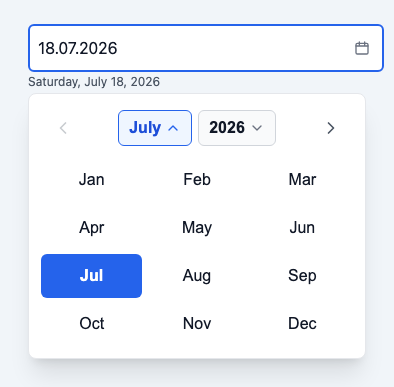
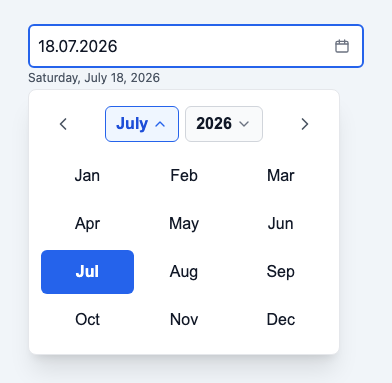
Guard every Date prop against Invalid Dates, not only value
Review of the invalid-date fix found the guard covered value and today
but left defaultCalendarMonth, minDate and maxDate raw. An Invalid
defaultCalendarMonth crashed at MOUNT — the header labels format the
view month on every render, popup open or not — reproduced against the
unguarded build before fixing. Invalid min/max degraded the year grid
to zero rows. All five Date props now normalize through usableDate at
the boundary, memoized so the React Compiler lint can keep its
memoization guarantees, and the regression suite covers each prop.

Also from the review: the new tests lacked the required placeholder
prop and a fireEvent import (the tests directory is not typechecked —
a known setup gap), screenshots and the GIF are regenerated because
the border-box reset narrows rendered widths (the 320px capture now
shows the exact overflow case fixed), and the changelog and release
notes for 0.3.1 describe both fixes.

diff --git a/tests/invalid-date.test.tsx b/tests/invalid-date.test.tsx
@@ -1,4 +1,4 @@
-import { render, screen } from "@testing-library/react";
+import { fireEvent, render, screen } from "@testing-library/react";
 import { describe, expect, it, vi } from "vitest";
 
 import { LocaleDatePicker } from "../src/LocaleDatePicker";
@@ -18,8 +18,53 @@ describe("an unusable Date never crashes the host tree", () => {
 
   it("renders with an Invalid Date as value", () => {
     expect(() =>
-      render(<LocaleDatePicker value={INVALID} onChange={() => {}} />),
+      render(
+        <LocaleDatePicker
+          value={INVALID}
+          onChange={() => {}}
+          placeholder="dd.mm.yyyy"
+        />,
+      ),
     ).not.toThrow();
+  });
+
+  it("renders and opens with an Invalid defaultCalendarMonth", () => {
+    // Reached the viewMonth state and crashed at MOUNT via the header
+    // labels, which format on every render whether the popup is open or
+    // not — a hole the original value-only guard left open.
+    expect(() =>
+      render(
+        <LocaleDatePicker
+          value={null}
+          onChange={() => {}}
+          placeholder="dd.mm.yyyy"
+          aria-label="Date"
+          defaultCalendarMonth={new Date("nope")}
+        />,
+      ),
+    ).not.toThrow();
+    fireEvent.click(screen.getByLabelText("Date"));
+    expect(screen.getByRole("dialog")).toBeTruthy();
+  });
+
+  it("Invalid minDate/maxDate degrade to unbounded, not to an empty year grid", () => {
+    render(
+      <LocaleDatePicker
+        value={new Date(2026, 6, 18)}
+        onChange={() => {}}
+        placeholder="dd.mm.yyyy"
+        aria-label="Date"
+        minDate={new Date("nope")}
+        maxDate={new Date("nope")}
+      />,
+    );
+    fireEvent.click(screen.getByLabelText("Date"));
+    // With the guard, invalid bounds behave exactly like absent bounds:
+    // the default 120-year grid, not a zero-row one.
+    fireEvent.click(screen.getByRole("button", { name: "2026", exact: true }));
+    expect(
+      screen.getByRole("button", { name: "1967", exact: true }),
+    ).toBeTruthy();
   });
 
   it("treats an Invalid Date as no date, leaving the field empty", () => {
@@ -43,6 +88,7 @@ describe("an unusable Date never crashes the host tree", () => {
         <LocaleDatePicker
           value={null}
           onChange={() => {}}
+          placeholder="dd.mm.yyyy"
           today={INVALID}
         />,
       ),
@@ -55,6 +101,7 @@ describe("an unusable Date never crashes the host tree", () => {
       <LocaleDatePicker
         value={INVALID}
         onChange={onChange}
+        placeholder="dd.mm.yyyy"
         aria-label="Date"
       />,
     );
@@ -67,6 +114,7 @@ describe("an unusable Date never crashes the host tree", () => {
       <LocaleDatePicker
         value={new Date(2026, 10, 17)}
         onChange={() => {}}
+        placeholder="dd.mm.yyyy"
         aria-label="Date"
       />,
     );

diff --git a/src/LocaleDatePicker.tsx b/src/LocaleDatePicker.tsx
@@ -651,9 +651,9 @@ export const LocaleDatePicker: React.FC<LocaleDatePickerProps> = ({
   placeholder,
   disabled,
   hasError,
-  defaultCalendarMonth,
-  minDate,
-  maxDate,
+  defaultCalendarMonth: rawDefaultCalendarMonth,
+  minDate: rawMinDate,
+  maxDate: rawMaxDate,
   onBlur,
   today: todayProp,
   timeZone,
@@ -675,8 +675,17 @@ export const LocaleDatePicker: React.FC<LocaleDatePickerProps> = ({
   const resolvedLocale = resolveLocale(locale);
 
   // Normalize once, at the boundary, so no formatter downstream can be handed
-  // an Invalid Date. See usableDate above.
-  const value = usableDate(rawValue);
+  // an Invalid Date. See usableDate above. Every Date prop passes through:
+  // an Invalid defaultCalendarMonth reached the viewMonth state and crashed
+  // at MOUNT via the always-computed header labels, and Invalid min/max
+  // degrade the year grid to empty — all four are one bad API response away.
+  const value = React.useMemo(() => usableDate(rawValue), [rawValue]);
+  const defaultCalendarMonth = React.useMemo(
+    () => usableDate(rawDefaultCalendarMonth),
+    [rawDefaultCalendarMonth],
+  );
+  const minDate = React.useMemo(() => usableDate(rawMinDate), [rawMinDate]);
+  const maxDate = React.useMemo(() => usableDate(rawMaxDate), [rawMaxDate]);
 
   // Every element the component renders takes its data-part, its class
   // override and its inline-style override from the same anatomy key, so

diff --git a/docs/releases/v0.3.1.md b/docs/releases/v0.3.1.md
@@ -6,6 +6,15 @@ audit found.
 
 ## Fixed
 
+- An Invalid Date passed as `value`, `today`, `defaultCalendarMonth`,
+  `minDate` or `maxDate` — one `new Date(badApiField)` away in any real
+  form — crashed the consumer's whole tree with `RangeError: Invalid time
+  value` thrown from render. All five Date props now normalize at the
+  boundary; an unusable Date behaves exactly like an absent one.
+- The component was measured content-box, so the popover overflowed a
+  320px viewport by ten pixels. A border-box reset now applies, scoped to
+  the component's own subtree and written with `:where()` so it cannot
+  leak into consumer markup.
 - Without an explicit `minDate`, the year grid started at the current year,
   quietly making past years unreachable through the year view — month
   navigation and typed entry were never limited. It now spans 120 years
@@ -20,5 +29,5 @@ audit found.
   date; the year grid reaches 1900 when `minDate` asks for it and 120 years
   back without one.
 
-Suites: 134 unit tests (3 timezones), 192 Playwright checks across
+Suites: 141 unit tests (3 timezones), 192 Playwright checks across
 Chromium, Firefox and WebKit.

diff --git a/CHANGELOG.md b/CHANGELOG.md
@@ -9,6 +9,17 @@ surfaced one real gap and fixed it.
 
 ### Fixed
 
+- An Invalid Date (`new Date("nope")`, or `new Date(x)` where `x` arrived
+  null or malformed from an API) passed as `value`, `today`,
+  `defaultCalendarMonth`, `minDate` or `maxDate` crashed the consumer's
+  whole tree with `RangeError: Invalid time value` thrown from render. All
+  five Date props now normalize at the boundary: an unusable Date behaves
+  exactly like an absent one, and a regression suite pins every prop.
+- The component was measured content-box, so the popover's declared
+  19.5rem plus padding and border came to 330px on a 320px viewport and
+  overflowed. A border-box reset now applies, scoped to the component's own
+  subtree with `:where()` so it cannot leak into consumer markup and stays
+  overridable.
 - Without an explicit `minDate`, the year grid started at the current year,
   quietly making past years unreachable through the year view (month
   navigation and typed entry were never limited). It now spans 120 years
